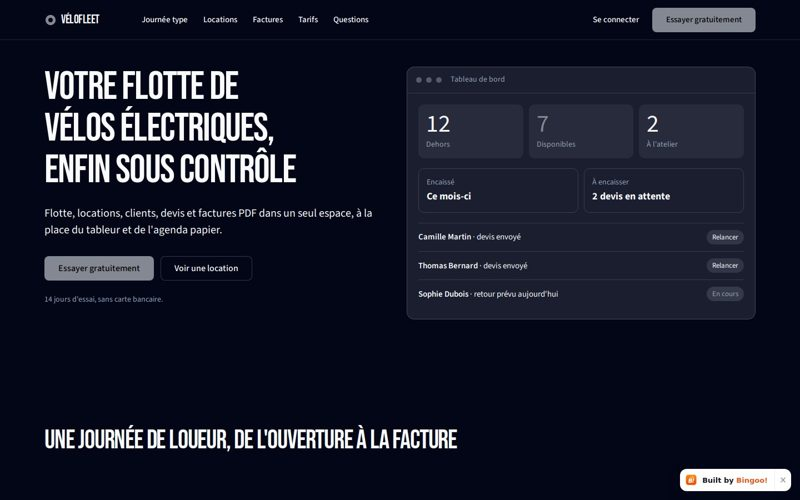
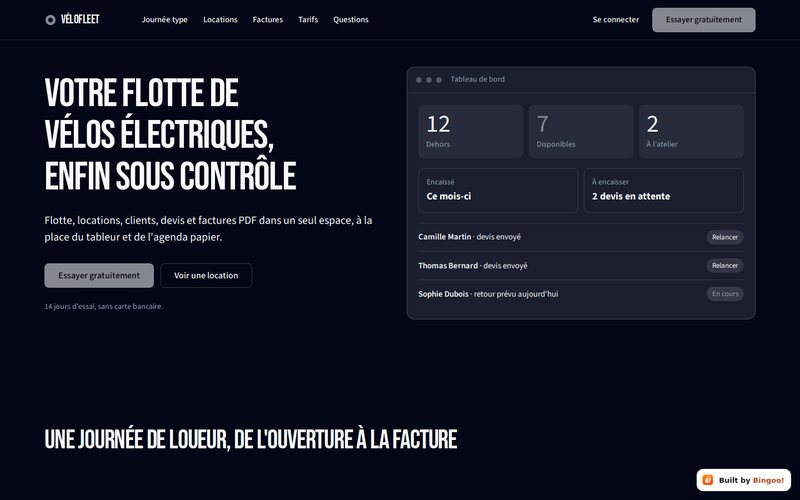
Accueil : vitrine de 15 réalisations (SaaS et sites), premiers écrans réels capturés par le robot, en deux rangées qui défilent
Claude-Session: https://claude.ai/code/session_01VPSS7mNZ2Xsm3gALV4YePB

diff --git a/src/pages/Landing.jsx b/src/pages/Landing.jsx
@@ -187,17 +187,23 @@ function ChantierFlou({ texte, genre, children }) {
 }
 
 // Un clic sur un SaaS de la vitrine remplit l'idée (point de départ à adapter)
+// Premiers écrans réels de projets construits par Bingoo! (captures du robot, en visiteur) ; 5e valeur : "site" pour un site vitrine
 const VITRINE = [
-  ["agendo", "Agendo", "Réservation en ligne", "Un outil de réservation en ligne pour les indépendants, avec rappel la veille"],
+  ["club-randonnee", "Club Randonnée", "Site d'association", "Le site de mon association de randonnée, avec nos sorties", "site"],
+  ["rendezo", "Rendezo", "Réservation en ligne", "Un outil de réservation en ligne pour les indépendants, avec rappel la veille"],
   ["tablio", "Tablio", "Restaurant : tables et commandes", "Un outil pour gérer les réservations de tables et les commandes de mon restaurant"],
   ["velofleet", "VéloFleet", "Location de vélos", "Un logiciel pour gérer ma flotte de vélos électriques en location"],
-  ["cliches", "Clichés", "Photographes de mariage", "Un outil pour suivre mes couples de mariés, de la demande à la galerie photo"],
-  ["chantierpro", "ChantierPro", "Suivi de chantiers", "Un outil pour suivre mes chantiers, tâche par tâche, avec le budget"],
-  ["asso-pilote", "Asso Pilote", "Associations", "Un outil pour gérer les adhérents et les cotisations de mon association"],
-  ["coachflow", "Coachflow", "Coachs sportifs", "Un outil pour gérer mes clients de coaching sportif, leurs séances et leurs paiements"],
-  ["cireze", "Cirèze", "Commandes et stock", "Un outil pour gérer mes commandes, mon stock et mes clients"],
-  ["coupe-mesure", "Coupe Mesure", "Salons de coiffure", "Une app de réservation pour mon salon de coiffure"],
+  ["chantiex", "Chantiex", "Suivi de chantiers", "Un outil pour suivre mes chantiers de rénovation, avec photos, tâches et budget"],
+  ["profmaths", "ProfMaths", "Cours particuliers", "Une plateforme pour trouver un prof de maths près de chez soi"],
+  ["facturo", "Facturo", "Devis et factures", "Un outil pour faire mes devis, mes factures et mes relances"],
+  ["salon-domicile", "Salon à domicile", "Site de coiffeuse", "Le site de mon salon de coiffure à domicile à Lyon", "site"],
   ["menagio", "Ménagio", "Entreprises de ménage", "Un outil pour planifier et prouver les passages de mes agents de ménage"],
+  ["coachly", "Coachly", "Coachs sportifs", "Un outil pour gérer mes clients de coaching sportif, leurs séances et leurs paiements"],
+  ["coupelune", "Coupelune", "Salons de coiffure", "Une app de réservation pour mon salon de coiffure"],
+  ["plombipro", "PlombiPro", "Artisans plombiers", "Un outil pour mes devis, mon planning et mes factures de plombier"],
+  ["planilo", "Planilo", "Site d'un logiciel", "Le site de présentation de mon logiciel de réservation pour salons", "site"],
+  ["tacheo", "Tachéo", "Sociétés d'entretien", "Un outil pour planifier l'entretien et prouver chaque intervention"],
+  ["avisio", "Avisio", "Retours clients", "Un outil pour recueillir et trier les demandes de mes clients"],
 ];
 // Vidéos motion design faites par Bingoo! pour de vrais projets (rendues par le moteur vidéo de Bingoo!), lues en boucle
 // Vraies vidéos écrites par Bingoo! (les scénarios viennent du générateur), dans les 4 allures et les 3 formats
@@ -246,8 +252,8 @@ function VideosVitrine({ nav }) {
 function Vitrine({ choisir }) {
   const rangee = (l, sens) => (
     <div className="vitrine-rang flex w-max gap-4" style={{ animation: `vitrine ${sens > 0 ? 70 : 80}s linear infinite${sens < 0 ? " reverse" : ""}` }}>
-      {[...l, ...l].map(([img, nom, quoi, idee], i) => (
-        <button type="button" key={img + i} tabIndex={i >= l.length ? -1 : 0} aria-hidden={i >= l.length} onClick={() => choisir?.(idee, "saas")} title={`Partir de ${nom}`} className="group w-[300px] sm:w-[380px] shrink-0 overflow-hidden rounded-2xl border border-black/[.08] bg-white text-left shadow-[0_14px_34px_-24px_rgba(20,20,40,.55)] transition hover:-translate-y-1 hover:shadow-[0_22px_44px_-24px_rgba(20,20,40,.6)]">
+      {[...l, ...l].map(([img, nom, quoi, idee, genre], i) => (
+        <button type="button" key={img + i} tabIndex={i >= l.length ? -1 : 0} aria-hidden={i >= l.length} onClick={() => choisir?.(idee, genre ?? "saas")} title={`Partir de ${nom}`} className="group w-[300px] sm:w-[380px] shrink-0 overflow-hidden rounded-2xl border border-black/[.08] bg-white text-left shadow-[0_14px_34px_-24px_rgba(20,20,40,.55)] transition hover:-translate-y-1 hover:shadow-[0_22px_44px_-24px_rgba(20,20,40,.6)]">
           <img src={`/vitrine/${img}.jpg`} alt={`${nom}, construit avec Bingoo!`} loading="lazy" className="aspect-[16/10] w-full object-cover object-top" />
           <span className="flex items-center justify-between gap-2 px-3.5 py-2.5"><b className="text-[14px] text-[#1E2030]">{nom}</b><span className="truncate text-[12.5px] text-[#5B6075] group-hover:hidden">{quoi}</span><span className="hidden text-[12.5px] font-semibold text-[#E8571C] group-hover:inline">Partir de celui-ci →</span></span>
         </button>
@@ -258,11 +264,11 @@ function Vitrine({ choisir }) {
     <section className="relative left-1/2 w-screen -translate-x-1/2 overflow-hidden pt-12 pb-4 text-left" aria-label="SaaS construits avec Bingoo!">
       <style>{"@keyframes vitrine{from{transform:translateX(0)}to{transform:translateX(-50%)}}@media (prefers-reduced-motion:reduce){.vitrine-rang{animation:none!important}}.vitrine-bande:hover .vitrine-rang{animation-play-state:paused}"}</style>
       <p className="text-center text-[13px] font-semibold uppercase tracking-[.16em] text-[#5B6075]" style={JK}>Construits avec Bingoo!</p>
-      <h2 className="mx-auto mt-2 max-w-[760px] px-4 text-center text-[24px] sm:text-[32px] font-bold leading-tight text-[#1E2030]" style={JK}>De vrais SaaS, en ligne, pour tous les métiers</h2>
+      <h2 className="mx-auto mt-2 max-w-[760px] px-4 text-center text-[24px] sm:text-[32px] font-bold leading-tight text-[#1E2030]" style={JK}>De vrais SaaS et sites, en ligne, pour tous les métiers</h2>
       <p className="mx-auto mt-2 max-w-[640px] px-4 text-center text-[15px] text-[#5B6075]" style={JK}>Clique sur celui qui ressemble à ton projet : Bingoo! part de là et l'adapte à toi.</p>
       <div className="vitrine-bande mt-7 space-y-4 [mask-image:linear-gradient(90deg,transparent,#000_8%,#000_92%,transparent)]">
-        {rangee(VITRINE.slice(0, 5), 1)}
-        {rangee(VITRINE.slice(5), -1)}
+        {rangee(VITRINE.slice(0, 8), 1)}
+        {rangee(VITRINE.slice(8), -1)}
       </div>
     </section>
   );
